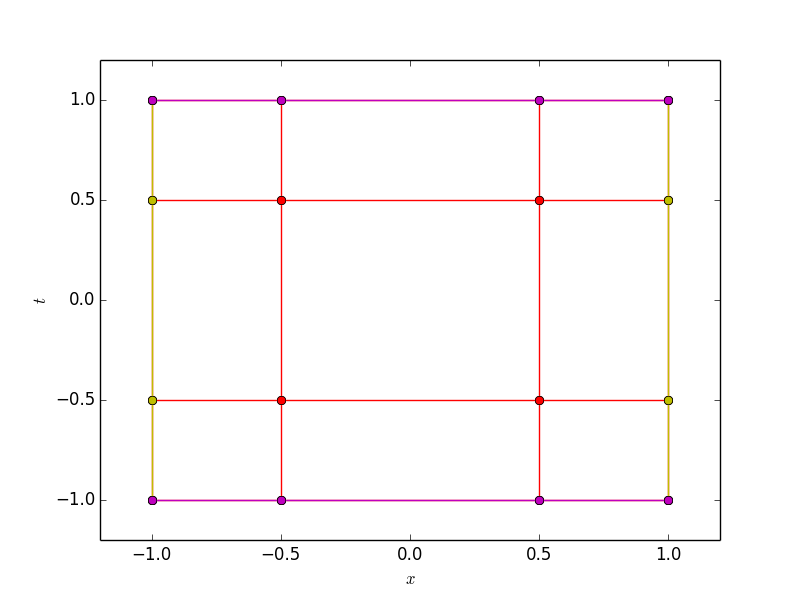
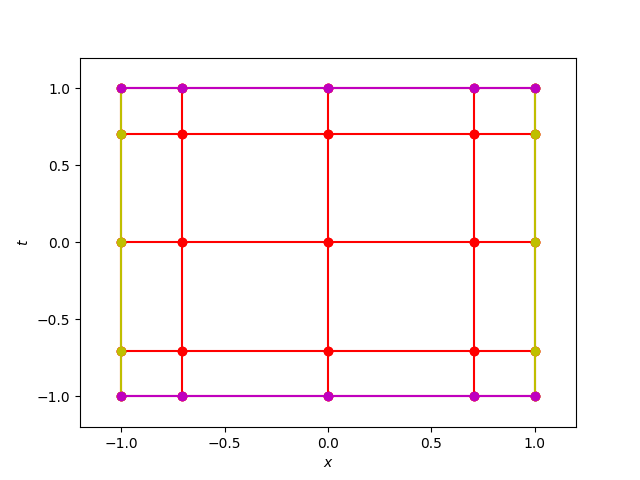
Pushing complete Julia code for the scalar wave equation

diff --git a/src/scalar_wave/scalarwave_3D.py b/src/scalar_wave/scalarwave_3D.py
@@ -16,16 +16,21 @@ import time
 # Grid
 #------------------------------------------------
 
+start_main = time.time()
+
 # Creates N+1 points.
-N = 4
+N = 10
 
 # Construct Chebyshev differentiation matrices.
 D0, t = util.cheb(N)
 D1, x = util.cheb(N)
-tt, xx = np.meshgrid(t,x)
+D2, y = util.cheb(N)
+D3, z = util.cheb(N)
 
-if(1):
-	util.plotgrid(tt, xx)
+D02 = np.dot(D0, D0)
+D12 = np.dot(D1, D1)
+D22 = np.dot(D2, D2)
+D32 = np.dot(D3, D3)
 
 #------------------------------------------------
 # Construct derivate + integral operators
@@ -33,29 +38,42 @@ if(1):
 
 # Construct the derivative operator
 I = np.eye(N+1)
-D = - np.kron(I,np.dot(D0, D0)) + np.kron(np.dot(D1, D1), I)
-Dt = np.kron(I, D0)
-Dx = np.kron(D1, I)
 
-print np.shape(D0)
+DD = - np.kron(I, np.kron(I, np.kron(I, D02))) \
+	 + np.kron(I, np.kron(np.kron(I, D12), I)) \
+ 	 + np.kron(np.kron(np.kron(I, D22), I), I) \
+ 	 + np.kron(np.kron(np.kron(D32, I), I), I)
+
+Dt = np.kron(I, np.kron(I, np.kron(I, D0)))
+Dx = np.kron(I, np.kron(np.kron(I, D12), I))
+Dy = np.kron(np.kron(np.kron(I, D22), I), I)
+Dz = np.kron(np.kron(np.kron(D32, I), I), I)
+
 # construct the weight matrix
-V = np.outer(util.clencurt(N), util.clencurt(N))
+V = np.outer(np.outer(np.outer(util.clencurt(N), util.clencurt(N)), util.clencurt(N)), util.clencurt(N))
 W = np.diag(np.ravel(V))
 
 # construct the main operator
-A = W.dot(D)
+A = W.dot(DD)
 
 #------------------------------------------------
 # Construct templates for boundary operators
 #------------------------------------------------
 
 # Choose the boundary points on
-# three sides of the grid and flatten the array out.
-loc_BC = np.zeros((N+1,N+1))
-loc_BC[0]     = -1	#  (x,  1) final time
-loc_BC[-1]    = 1	#  (x, -1) intial time
-loc_BC[:, 0]  = 1	# ( 1,  y) left boundary 
-loc_BC[:, -1] = 1	# (-1,  y) right boundary
+# all sides of the grid and flatten the array out.
+loc_BC = np.zeros((N+1, N+1, N+1, N+1))
+
+loc_BC[0,  :, :, :]     =  1	#  initial time
+loc_BC[-1, :, :, :]     = -1	#  final time
+
+# spatial boundaries
+loc_BC[:,  0, :,  :]     = 1	# x(L)	
+loc_BC[:, -1, :,  :]     = 1	# x(R)
+loc_BC[: , :,  0, :]     = 1	# y(L)
+loc_BC[:,  :, -1, :]     = 1	# y(R)
+loc_BC[:, : , :,  0]     = 1	# z(L)
+loc_BC[:, :,  :, -1]     = 1	# z(R)
 
 BC = np.ravel(loc_BC)
 
@@ -69,7 +87,7 @@ def dirichlet(A, index):
 	return A
 
 def neumann(A, index):
-	A[index] = Dx[index]
+	A[index] = Dt[index]
 	return A
 
 # reset matrix A
@@ -79,16 +97,19 @@ for _i,_r in enumerate(np.where(BC!=0)[0]):
 	elif BC[_r] == -1:	#impose Neumann BCs
 		neumann(A, _r)
 
-# construct the vector to be used
-# for imposing the boudanry condition
-b  = np.zeros((N+1)**2)
-
 # set the Dirichlet boundary values
-uu = np.zeros((N+1, N+1))
-uu[:, 0]  = 0.0
-uu[:, -1] = 0.0
-uu[-1]    = - np.sin(np.pi*x) #2.0 #-(x**2.0 - 1) #
-uu[0]     = 0.0
+uu = np.zeros((N+1, N+1, N+1, N+1))
+
+uu[0,  :, :, :]     = np.sin(np.pi*x)*np.sin(np.pi*y)*np.sin(np.pi*z)	#  initial time
+uu[-1, :, :, :]     = 0	#  final time
+
+# spatial boundaries
+uu[:,  0, :,  :]     = 0	# x(L)	
+uu[:, -1, :,  :]     = 0	# x(R)
+uu[: , :,  0, :]     = 0	# y(L)
+uu[:,  :, -1, :]     = 0	# y(R)
+uu[:, : , :,  0]     = 0	# z(L)
+uu[:, :,  :, -1]     = 0	# z(R)
 
 uu_boudary = np.copy(uu)
 b = np.ravel(uu)
@@ -102,48 +123,15 @@ start = time.time()
 u = np.linalg.solve(A, b)
 end = time.time()
 print "Time taken by solver: %rs" %(end - start)
-uu = np.reshape(u[:(N+1)**2], (N+1, N+1))
+uu = np.reshape(u, (N+1, N+1, N+1, N+1))
+
 
 #------------------------------------------------
 #analysis
 #------------------------------------------------
 if(0):	# find Eigenvalues (w) and Eigen vectors (v)
-	print "\nAnalysing the F matrix..."
+	print "\nAnalysing the matrix..."
 	w, v = np.linalg.eig(A)
 
-	plt.semilogy(w, 'ro')
-	plt.axhline([0])
-	plt.title("Eigen values for a %r-dimensional matrix"%(np.shape(A)[0]))
-	plt.savefig("../output/laplace_eigen_values.png")
-	plt.close()
-
-
-if(1):	#plot the solution
-	if(0):	#interpolate or not?
-		print("Interpolating grid.")
-		f    = interpolate.interp2d(t, x, uu, kind='cubic')
-		xnew = np.linspace(-1, 1, 30)
-		ynew = np.linspace(-1, 1, 30)
-		Z    = f(xnew, ynew)
-		X, Y = np.meshgrid(xnew, ynew)
-		# S    = ls.simple_BCs(X, Y)
-		# Err  = np.sqrt(np.mean((Z - S)**2.0))
-		# print "N = %r \t Error: %r "%(N+1, Err)
-	else:
-		Z    = uu
-		X, Y = np.meshgrid(t, x)
-		# S    = ls.simple_BCs(X, Y)
-		# Err  = np.sqrt(np.mean((Z - S)**2.0))
-		# print "N = %r \t Error: %r "%(N+1, Err)
-
-	fig = plt.figure()
-	ax = fig.gca(projection='3d')
-	plt.xlabel("x")
-	plt.ylabel("t")
-	if(0):	# BCs
-		ax.plot_wireframe(xx, yy, uu_boudary, rstride=1, cstride=1)
-	elif(0):	# analytical solution
-		ax.plot_wireframe(X, Y, S, rstride=1, cstride=1, color='r', linewidth=0.4)
-	else:		# computed solution
-		ax.plot_wireframe(X, Y, Z, rstride=1, cstride=1, color='m', linewidth=0.6)
-	plt.show()
+end_main = time.time()
+print "Time taken by code: %rs" %(end_main - start_main)/60.0

diff --git a/src/simplices/utilities.py b/src/simplices/utilities.py
@@ -1,7 +1,7 @@
 #==========================================================
 # Utilities to solve the wave equaiton on a spectral grid
 # Soham 2017
-# Most functions are borrowed from someone else's codes. 
+# Most functions are borrowed from someone else's codes.
 #==========================================================
 
 import math
@@ -21,6 +21,7 @@ def cheb(N):
       c=np.transpose(c)
       D=-np.reshape(np.kron(c,1/c),(N+1,N+1))/(dX+np.eye(N+1))
       D  = D - np.diagflat(np.sum(D,axis=1))	# diagonal entries
+
   return D,x
 
 # <https://github.com/mikaem/spmpython>
@@ -46,23 +47,20 @@ def clencurt(N):
     w[ii] = 2.0*v/N
     return w
 
-clencurt(5)
-
 # function to plot the chebychev grid
 def plotgrid(xx, tt):
   import matplotlib.pyplot as plt
-  plt.plot(xx, tt, 'r-o')
-  plt.plot(tt, xx, 'r-o')
+  plt.plot(xx, tt, 'ro')
+  plt.plot(tt, xx, 'ro')
 
-  plt.plot(tt[0], xx[0], 'y-o')
-  plt.plot(tt[-1], xx[-1], 'y-o')
+  # plt.plot(tt[0], xx[0], 'y-o')
+  # plt.plot(tt[-1], xx[-1], 'y-o')
 
-  plt.plot(tt[:, 0], xx[:, 0], 'm-o')
-  plt.plot(tt[:, -1], xx[:, -1], 'm-o')
+  # plt.plot(tt[:, 0], xx[:, 0], 'm-o')
+  # plt.plot(tt[:, -1], xx[:, -1], 'm-o')
 
   plt.ylim(-1.2, 1.2)
   plt.xlim(-1.2, 1.2)
   plt.xlabel(r"$x$")
-  plt.ylabel(r"$t$")
-  plt.savefig("../../output/chebgrid.png")
-  plt.close()
+  plt.ylabel(r"$y$")
+  plt.show()

diff --git a/src/simplices/scalarwave_1D.py b/src/simplices/scalarwave_1D.py
@@ -1,0 +1,42 @@
+#==========================================================
+# Code to solve the scalar wave equation using a
+# discretized lagrangian
+# Soham 8 2017
+#==========================================================
+
+import numpy as np
+import utilities as util
+from mpl_toolkits.mplot3d import Axes3D
+import matplotlib.pyplot as plt
+from matplotlib import cm
+from scipy import interpolate
+import time
+
+#------------------------------------------------
+# Grid
+#------------------------------------------------
+
+# Creates N+1 points.
+N = 4
+
+# Construct Chebyshev differentiation matrices.
+D0, x = util.cheb(N)
+D1, y = util.cheb(N)
+
+# the standard tensor product grid
+xx, yy = np.meshgrid(x,y)
+
+fig, ax = plt.subplots(nrows=1, ncols=2)
+
+
+ax[0].plot(xx,yy, 'o')
+
+
+# TSEM grid
+
+u = ((1 + xx)*(1-yy)/4.0)
+v = (1 + yy)/2.0
+
+
+ax[1].plot(u, v, 'o')
+plt.show()

diff --git a/src/scalar_wave/scalarwave_2D.py b/src/scalar_wave/scalarwave_2D.py
@@ -17,7 +17,7 @@ import time
 #------------------------------------------------
 
 # Creates N+1 points.
-N = 4
+N = 40
 
 # Construct Chebyshev differentiation matrices.
 D0, t = util.cheb(N)
@@ -37,7 +37,6 @@ D = - np.kron(I,np.dot(D0, D0)) + np.kron(np.dot(D1, D1), I)
 Dt = np.kron(I, D0)
 Dx = np.kron(D1, I)
 
-print np.shape(D0)
 # construct the weight matrix
 V = np.outer(util.clencurt(N), util.clencurt(N))
 W = np.diag(np.ravel(V))
